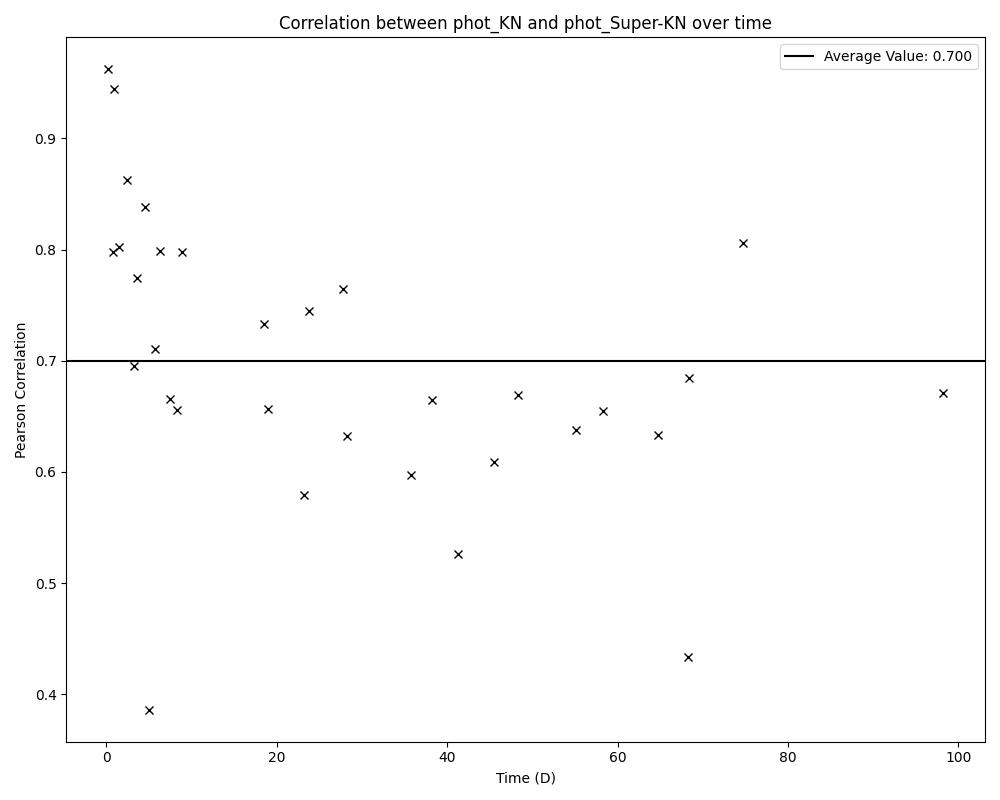
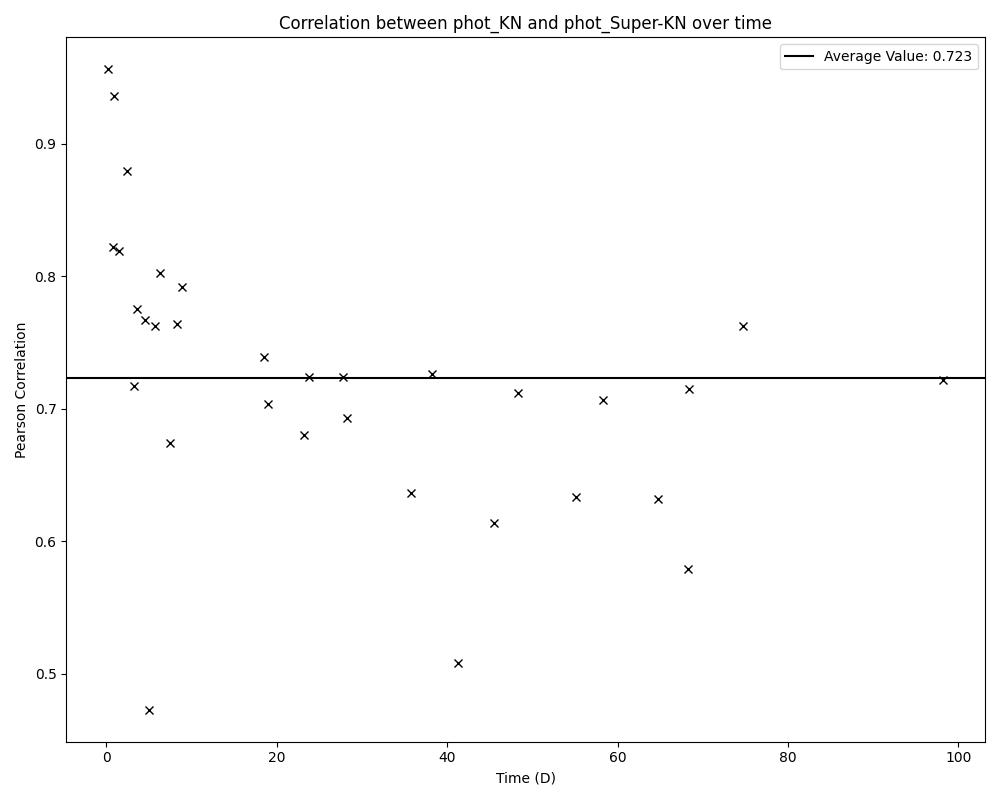
Spearman's Correlation

diff --git a/analysis.py b/analysis.py
@@ -10,8 +10,8 @@ data_clean = full_data[full_data['dist'] > 1e-5]
 relevant_data = data_clean[['2D', 'dist', 'phot_KN', 'phot_KN-in-SN', 'phot_super-KN', 'predet_KN', 'predet_KN-in-SN', 'predet_super-KN']]
 relevant_data_unfiltered = full_data[['2D', 'dist', 'phot_KN', 'phot_KN-in-SN', 'phot_super-KN', 'predet_KN', 'predet_KN-in-SN', 'predet_super-KN']]
 
-corr_matrix = relevant_data.corr()
-corr_matrix_unfiltered = relevant_data_unfiltered.corr()
+corr_matrix = relevant_data.corr(method='spearman')
+corr_matrix_unfiltered = relevant_data_unfiltered.corr(method='spearman')
 
-corr_matrix.to_csv('filtered_correlations.csv')
-corr_matrix_unfiltered.to_csv('unfiltered_correlations.csv')
+corr_matrix.to_csv('out/corrs/filtered_correlations.csv')
+corr_matrix_unfiltered.to_csv('out/corrs/unfiltered_correlations.csv')

diff --git a/photo_analysis.py b/photo_analysis.py
@@ -39,9 +39,9 @@ def get_correlation_data():
     for i in range(0, rows_count, bin_size):
         subset = clean_data.iloc[i:i+bin_size]
         times.append(subset['dt'].mean())
-        corr_KN_KS.append(subset['phot_KN'].corr(subset['phot_KN-in-SN']))
-        corr_KN_SK.append(subset['phot_KN'].corr(subset['phot_super-KN']))
-        corr_KS_SK.append(subset['phot_KN-in-SN'].corr(subset['phot_super-KN']))
+        corr_KN_KS.append(subset['phot_KN'].corr(subset['phot_KN-in-SN'], method='spearman'))
+        corr_KN_SK.append(subset['phot_KN'].corr(subset['phot_super-KN'], method='spearman'))
+        corr_KS_SK.append(subset['phot_KN-in-SN'].corr(subset['phot_super-KN'], method='spearman'))
 
 def plot():
     plt.figure(figsize=(10,8))
